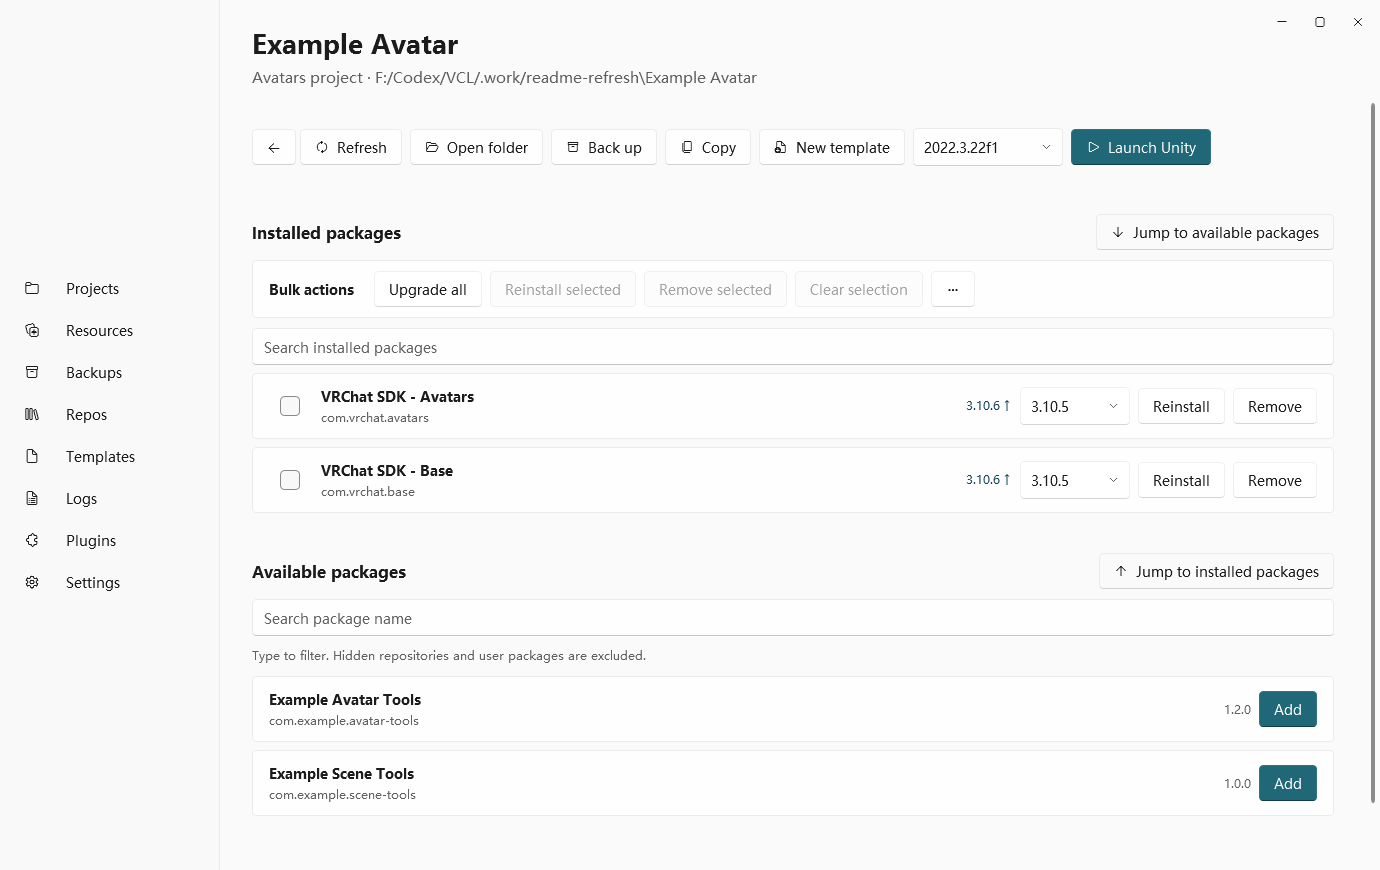
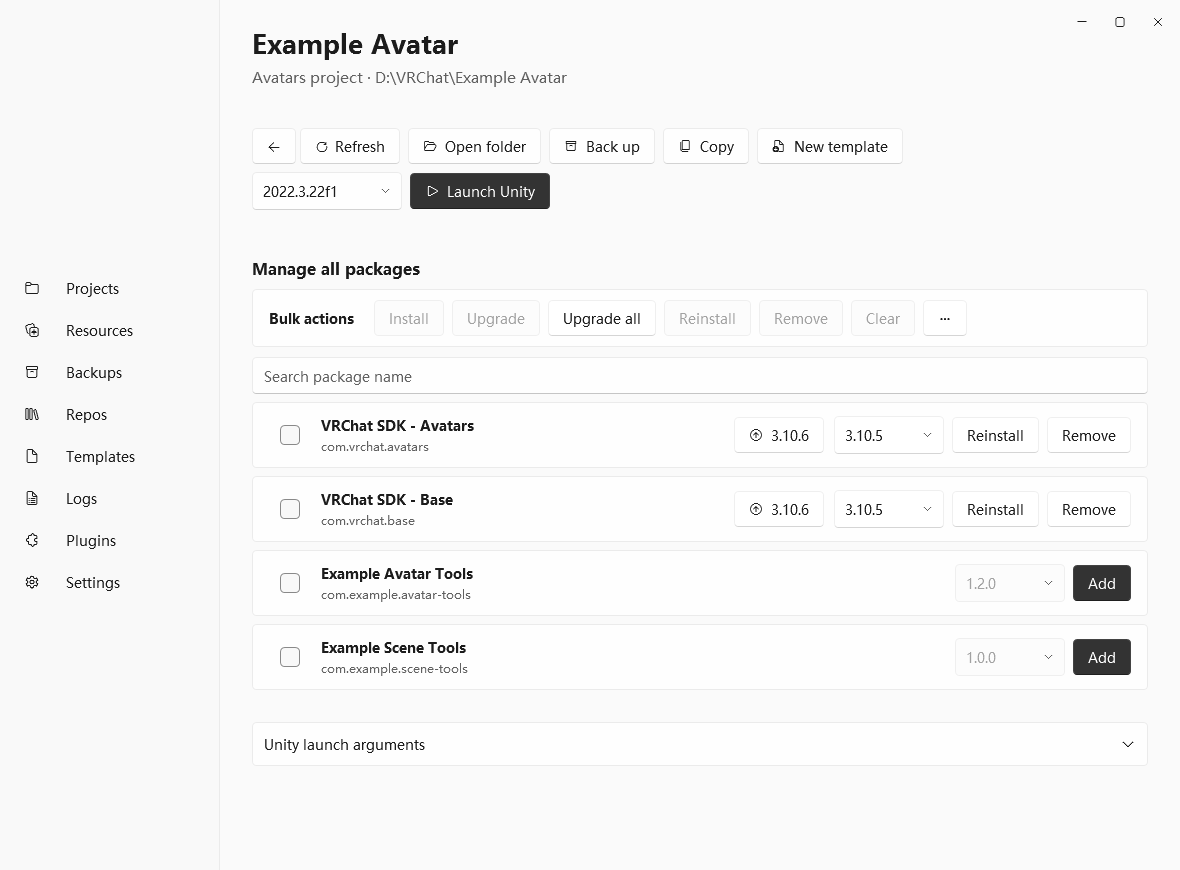
docs: refresh trilingual release notes and unified package screenshots

diff --git a/.github/fork-release-notes/beta.md b/.github/fork-release-notes/beta.md
@@ -1,6 +1,6 @@
 ## 简体中文
 
-- 项目详情采用单一软件包列表与共用搜索框，标题调整为「管理所有软件包」，移除分区跳转按钮。接入安装和升级所选包，保留稳定版全部升级、预发布版升级和全部重装菜单，操作仍先进入变更预览。
+- 项目详情采用单一软件包列表与共用搜索框，标题调整为「管理所有软件包」，移除分区跳转按钮。接入安装和升级所选包，保留稳定版全部升级、预发布版升级和全部重装菜单，操作仍先进入变更预览。 批量操作栏保持单行，空间不足时将部分操作收进「…」菜单，按钮悬停说明保留完整操作名称。
 - 手动备份增加「着色器缓存」选项。包含 Library 时跳过无法读取的占用文件并显示数量，文件收集与压缩在后台执行。保留自动备份、项目归档及启动器全量备份。
 - 新建项目会读取所选 Unity 编辑器的标准软件包清单；缺失时给出明确提示。修复降级软件包时，传递依赖低于项目声明版本所导致的错误冲突。
 - 插件有新版本时，将「打开」按钮替换为「更新」。项目刷新进度跟随列表实际重载状态，仓库页的添加、刷新、导入和导出按钮集中排列。
@@ -8,7 +8,7 @@
 
 ## 日本語
 
-- プロジェクト詳細のパッケージを共通の検索欄がある一つの一覧に統合し、セクション間の移動ボタンを削除しました。選択したパッケージのインストール・更新を追加し、安定版への一括更新、プレリリース版を含む更新、全パッケージの再インストールメニューを維持します。適用前には変更内容をプレビューできます。
+- プロジェクト詳細のパッケージを共通の検索欄がある一つの一覧に統合し、セクション間の移動ボタンを削除しました。選択したパッケージのインストール・更新を追加し、安定版への一括更新、プレリリース版を含む更新、全パッケージの再インストールメニューを維持します。適用前には変更内容をプレビューできます。 一括操作バーは常に一行で表示し、幅が足りない場合は一部の操作を「…」メニューに移します。ツールチップでは操作の完全な名称を確認できます。
 - 手動バックアップに「シェーダーキャッシュ」オプションを追加しました。Library を含める場合は、使用中で読み取れないファイルをスキップして件数を表示し、ファイル収集と圧縮をバックグラウンドで実行します。自動バックアップ、プロジェクトのアーカイブ、ランチャーの完全バックアップも維持します。
 - 新規プロジェクトでは、選択した Unity エディターの標準パッケージマニフェストを読み込み、見つからない場合は明確なメッセージを表示します。パッケージのダウングレードで間接依存のバージョンがプロジェクトの宣言より低くなる際の誤った競合を修正しました。
 - プラグインの新しいバージョンがある場合、「開く」ボタンを「更新」に切り替えます。プロジェクトの更新進捗を一覧の再読み込み状態に合わせ、リポジトリ画面の追加・更新・インポート・エクスポートボタンをまとめました。
@@ -16,7 +16,7 @@
 
 ## English
 
-- Combined installed and available packages into one list with a shared search field and removed section navigation buttons. Added install and upgrade actions for selected packages while retaining stable-only upgrades, prerelease upgrades, and reinstall-all options. Operations still go through the change preview before applying.
+- Combined installed and available packages into one list with a shared search field and removed section navigation buttons. Added install and upgrade actions for selected packages while retaining stable-only upgrades, prerelease upgrades, and reinstall-all options. Operations still go through the change preview before applying. The bulk action bar stays on one line, moving some actions into the more menu when space is limited. Tooltips retain the full action names.
 - Added a shader cache option to manual backups. When including Library, unreadable files in use are skipped and counted, while file collection and compression run in the background. Automatic backups, project archiving, and full launcher backups remain available.
 - New projects read the standard package manifest from the selected Unity editor and show a clear message if it is missing. Fixed false conflicts when a package downgrade brings a transitive dependency below the version declared by the project.
 - Replaced the plugin Open button with Update when a new version is available. Project refresh progress now follows the actual list reload state, and repository add, refresh, import, and export buttons are grouped together.

diff --git a/.github/fork-release-notes/main.md b/.github/fork-release-notes/main.md
@@ -1,6 +1,6 @@
 ## 简体中文
 
-- 项目详情采用单一软件包列表与共用搜索框，标题调整为「管理所有软件包」，移除分区跳转按钮。接入安装和升级所选包，保留稳定版全部升级、预发布版升级和全部重装菜单，操作仍先进入变更预览。
+- 项目详情采用单一软件包列表与共用搜索框，标题调整为「管理所有软件包」，移除分区跳转按钮。接入安装和升级所选包，保留稳定版全部升级、预发布版升级和全部重装菜单，操作仍先进入变更预览。 批量操作栏保持单行，空间不足时将部分操作收进「…」菜单，按钮悬停说明保留完整操作名称。
 - 手动备份增加「着色器缓存」选项。包含 Library 时跳过无法读取的占用文件并显示数量，文件收集与压缩在后台执行。保留自动备份、项目归档及启动器全量备份。
 - 新建项目会读取所选 Unity 编辑器的标准软件包清单；缺失时给出明确提示。修复降级软件包时，传递依赖低于项目声明版本所导致的错误冲突。
 - 插件有新版本时，将「打开」按钮替换为「更新」。项目刷新进度跟随列表实际重载状态，仓库页的添加、刷新、导入和导出按钮集中排列。
@@ -8,7 +8,7 @@
 
 ## 日本語
 
-- プロジェクト詳細のパッケージを共通の検索欄がある一つの一覧に統合し、セクション間の移動ボタンを削除しました。選択したパッケージのインストール・更新を追加し、安定版への一括更新、プレリリース版を含む更新、全パッケージの再インストールメニューを維持します。適用前には変更内容をプレビューできます。
+- プロジェクト詳細のパッケージを共通の検索欄がある一つの一覧に統合し、セクション間の移動ボタンを削除しました。選択したパッケージのインストール・更新を追加し、安定版への一括更新、プレリリース版を含む更新、全パッケージの再インストールメニューを維持します。適用前には変更内容をプレビューできます。 一括操作バーは常に一行で表示し、幅が足りない場合は一部の操作を「…」メニューに移します。ツールチップでは操作の完全な名称を確認できます。
 - 手動バックアップに「シェーダーキャッシュ」オプションを追加しました。Library を含める場合は、使用中で読み取れないファイルをスキップして件数を表示し、ファイル収集と圧縮をバックグラウンドで実行します。自動バックアップ、プロジェクトのアーカイブ、ランチャーの完全バックアップも維持します。
 - 新規プロジェクトでは、選択した Unity エディターの標準パッケージマニフェストを読み込み、見つからない場合は明確なメッセージを表示します。パッケージのダウングレードで間接依存のバージョンがプロジェクトの宣言より低くなる際の誤った競合を修正しました。
 - プラグインの新しいバージョンがある場合、「開く」ボタンを「更新」に切り替えます。プロジェクトの更新進捗を一覧の再読み込み状態に合わせ、リポジトリ画面の追加・更新・インポート・エクスポートボタンをまとめました。
@@ -16,7 +16,7 @@
 
 ## English
 
-- Combined installed and available packages into one list with a shared search field and removed section navigation buttons. Added install and upgrade actions for selected packages while retaining stable-only upgrades, prerelease upgrades, and reinstall-all options. Operations still go through the change preview before applying.
+- Combined installed and available packages into one list with a shared search field and removed section navigation buttons. Added install and upgrade actions for selected packages while retaining stable-only upgrades, prerelease upgrades, and reinstall-all options. Operations still go through the change preview before applying. The bulk action bar stays on one line, moving some actions into the more menu when space is limited. Tooltips retain the full action names.
 - Added a shader cache option to manual backups. When including Library, unreadable files in use are skipped and counted, while file collection and compression run in the background. Automatic backups, project archiving, and full launcher backups remain available.
 - New projects read the standard package manifest from the selected Unity editor and show a clear message if it is missing. Fixed false conflicts when a package downgrade brings a transitive dependency below the version declared by the project.
 - Replaced the plugin Open button with Update when a new version is available. Project refresh progress now follows the actual list reload state, and repository add, refresh, import, and export buttons are grouped together.

diff --git a/README.ja.md b/README.ja.md
@@ -8,7 +8,7 @@
 
 ## VCL Canary の特徴
 
-- **プロジェクトのパッケージ管理**　インストール済み・インストール可能なパッケージを、共通の検索欄がある一つの一覧で管理できます。選択したパッケージのインストール・更新、安定版への一括更新に対応し、その他メニューからプレリリース版を含む更新や、取得元がある全パッケージの固定バージョンでの再インストールも行えます。
+- **プロジェクトのパッケージ管理**　インストール済み・インストール可能なパッケージを、共通の検索欄がある一つの一覧で管理できます。選択したパッケージのインストール・更新、安定版への一括更新に対応し、その他メニューからプレリリース版を含む更新や、取得元がある全パッケージの固定バージョンでの再インストールも行えます。 横幅が足りない場合は、一部の一括操作が「…」メニューに移ります。
 - **アプリ内更新**　安定版、Beta、Alpha から更新チャンネルを選べます。アプリ内更新に対応したインストーラーをダウンロードした後は、すぐに更新するか、次回起動時にインストールできます。
 - **アプリ内プラグインカタログ**　「プラグイン → プラグインを探す」から拡張機能を検索し、互換性を確認してダウンロード・インストールできます。
 - **外部ローカルパッケージを含めるアーカイブ（実験的）**　設定で有効にすると、プロジェクトが直接参照する外部のローカル UPM パッケージフォルダーや `.tgz` を確認して、アーカイブに含めることができます。元のプロジェクトフォルダーはアーカイブの検証後に削除されます。

diff --git a/README.en.md b/README.en.md
@@ -8,7 +8,7 @@
 
 ## VCL Canary highlights
 
-- **Project package management**  Manage installed and available packages in one searchable list. Install or upgrade selected packages, upgrade all packages to newer stable versions, or use the more menu to include prereleases or reinstall all packages with a known source at their locked versions.
+- **Project package management**  Manage installed and available packages in one searchable list. Install or upgrade selected packages, upgrade all packages to newer stable versions, or use the more menu to include prereleases or reinstall all packages with a known source at their locked versions. When space is limited, some bulk actions move into the more menu.
 - **In-app updates.** Subscribe to the stable, Beta, or Alpha channel. Once an eligible update has downloaded, install it right away or on the next launch.
 - **In-app plugin catalog.** Open **Plugins → Browse plugins** to find extensions, check compatibility, and download and install them.
 - **Archive with external local packages (experimental).** Enable the feature in Settings to preview and include directly referenced local UPM package directories or `.tgz` packages in an archive. The launcher removes the original project directory after verifying the archive.

diff --git a/README.md b/README.md
@@ -8,7 +8,7 @@
 
 ## VCL Canary 的特色
 
-- **项目软件包管理**　已安装和可安装的软件包在同一个列表中管理，共用搜索框。支持安装、升级所选包，以及升级全部稳定版；更多菜单提供预发布版升级和按锁定版本重新安装所有有来源的软件包。
+- **项目软件包管理**　已安装和可安装的软件包在同一个列表中管理，共用搜索框。支持安装、升级所选包，以及升级全部稳定版；更多菜单提供预发布版升级和按锁定版本重新安装所有有来源的软件包。 空间不足时，部分批量操作会收进「…」菜单。
 - **应用内更新**　可订阅正式版、Beta 或 Alpha。支持应用内安装的更新下载完成后，可立即安装或留到下次启动时安装。
 - **应用内插件市场**　从「插件 → 浏览插件」搜索扩展、查看兼容性并下载安装。
 - **归档时包含外部本地软件包（实验性）**　在设置中启用后，可在归档时预览并打包项目直接引用的外部本地 UPM 目录包或 `.tgz` 包。归档校验通过后才会移除原项目目录。
